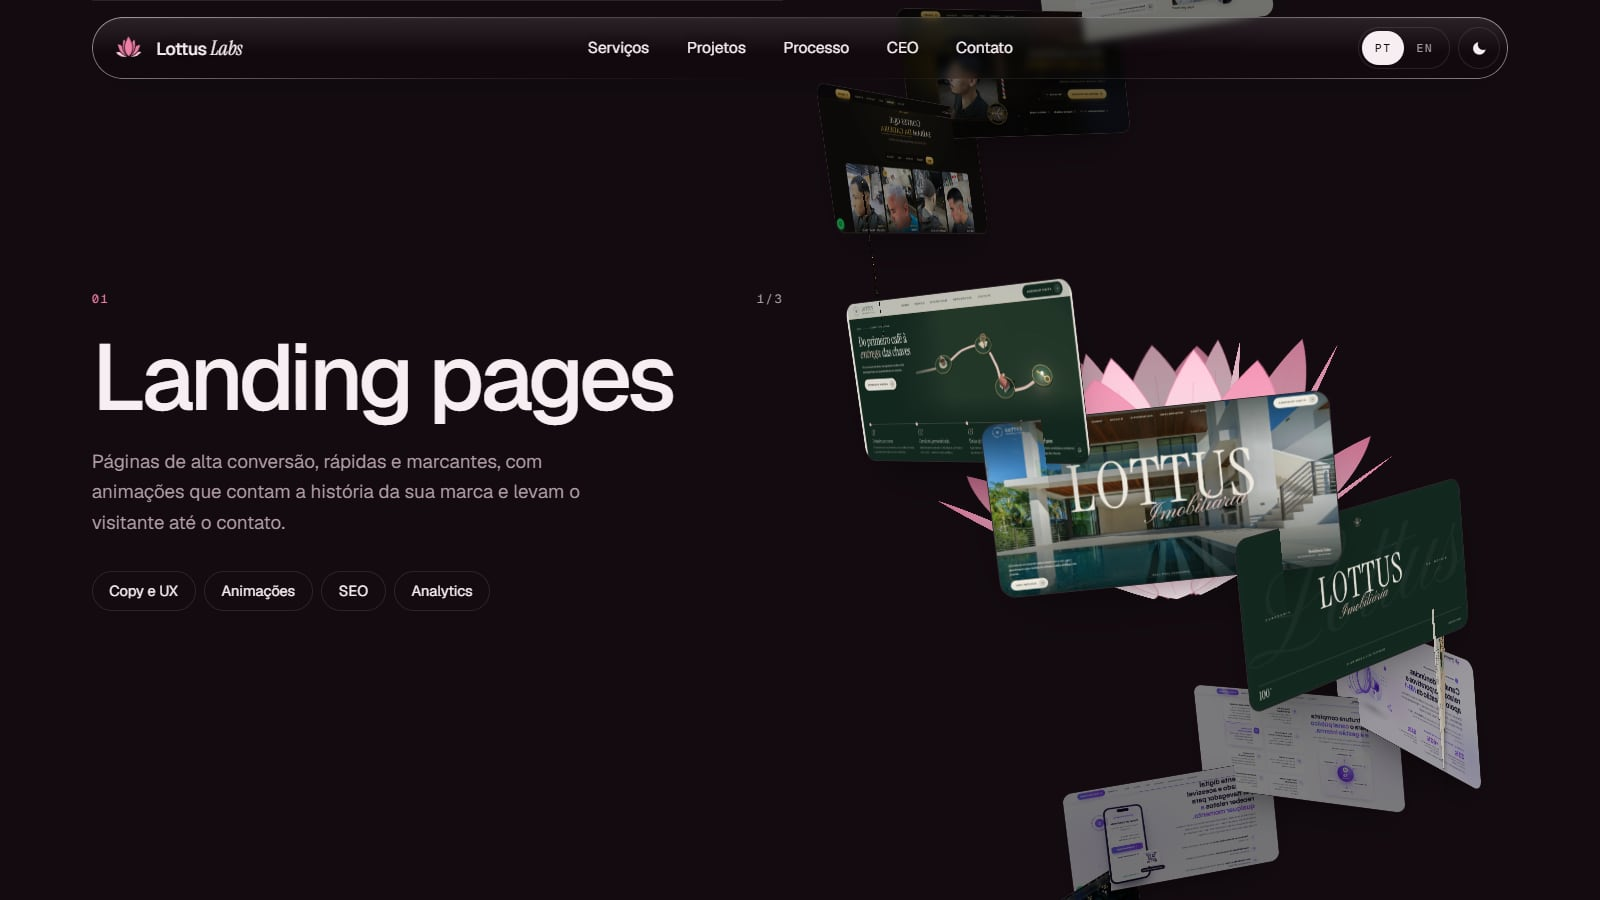
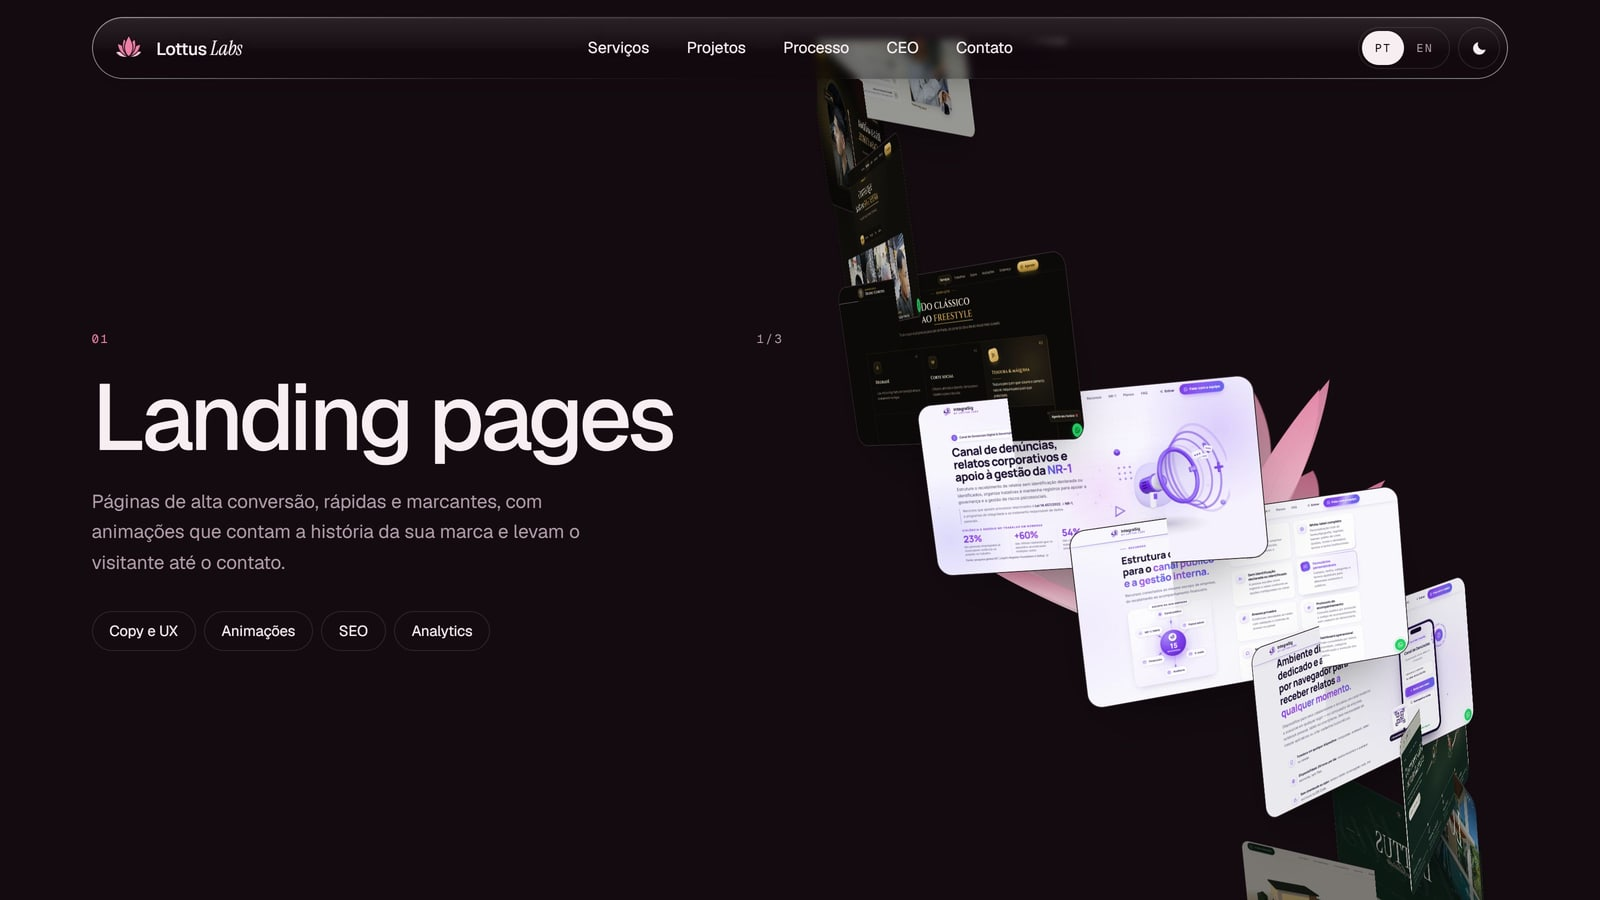
docs: update project showcase with clients section and new works

diff --git a/README.md b/README.md
@@ -145,19 +145,25 @@ O processo é contado como o ciclo de vida da lótus, em cinco etapas: **Semente
 
 A apresentação do fundador (eu!). A foto fica escondida atrás de uma silhueta coberta de pétalas, com outras pétalas girando ao redor. Passando o mouse, o cursor joga tinta que revela a foto por baixo: a tinta escorre, seca sozinha em menos de um segundo, e as pétalas escorregam para fora dela e voltam quando ela seca. Ao lado, alguns fatos rápidos, como idade, cidade, idiomas e a motivação de todo dia.
 
-### 8. Perguntas frequentes
+### 8. Clientes
+
+<img src="./assets/clientes.jpg" alt="Anéis de cartões com o ícone e o nome de cada cliente girando em volta de uma flor de lótus" width="100%">
+
+Os clientes da Lottus Labs, os mesmos dos trabalhos selecionados, em cartões que giram em anéis ao redor de uma flor de lótus, entre pétalas que caem. Cada cartão traz o ícone do site do cliente, nas cores dele, e o nome ao lado; nomes longos quebram em duas linhas, como num logo. Com a rolagem, a câmera desce de uma vista de cima, onde os anéis aparecem como círculos, até a altura dos cartões. A seção também tem atalho no menu, em *Clientes*.
+
+### 9. Perguntas frequentes
 
 <img src="./assets/faq.jpg" alt="Seção de perguntas frequentes com uma resposta aberta" width="100%">
 
 As dúvidas mais comuns respondidas de forma direta: quanto custa, quanto tempo leva, domínio e hospedagem, celular e Google, atualizações depois da entrega, atendimento fora de São Paulo e o que acontece depois do lançamento. Para o que não estiver ali, um botão leva direto ao WhatsApp.
 
-### 9. Contato
+### 10. Contato
 
 <img src="./assets/contato.jpg" alt="Convite “Vamos fazer sua ideia florescer?” com botões de WhatsApp e Instagram sobre o lago" width="100%">
 
-Assim que a seção aparece, começa uma chuva leve de pétalas sobre o lago. Com a rolagem, as pétalas se juntam e formam uma flor de lótus sobre a água, logo abaixo do convite *Vamos fazer sua ideia florescer?*, com botões diretos para o WhatsApp e o Instagram. O lago aqui é o mesmo do início, então os pássaros, os morcegos e os visitantes escondidos também passam por lá.
+Assim que a seção aparece, começa uma chuva leve de pétalas sobre o lago. Com a rolagem, as pétalas se juntam e formam uma flor de lótus sobre a água, logo abaixo do convite *Vamos fazer sua ideia florescer?*, com botões diretos para o WhatsApp e o Instagram. Quem chega pelo *Contato* do menu desce direto para o fim da seção, com a flor já montada e o convite à vista, em vez de parar num lago ainda vazio. O lago aqui é o mesmo do início, então os pássaros, os morcegos e os visitantes escondidos também passam por lá.
 
-### 10. O final
+### 11. O final
 
 <img src="./assets/final.jpg" alt="Nome “Lottus Labs” pintado em letras grandes no fundo escuro" width="100%">
 
@@ -174,9 +180,9 @@ Boa parte das visitas chega pelo Instagram, então o site foi ajustado com cuida
 <img src="./assets/mobile-2.jpg" alt="Mais quatro telas da versão para celular: espiral de projetos, CEO, contato e o final com os botões do canto" width="100%">
 
 - **O título vem primeiro** e a flor fica logo abaixo, um pouco depois do meio da tela, também durante a volta de 360°.
-- **A espiral de projetos vem antes dos serviços**, centralizada, e gira enquanto cruza a tela, abrindo com os prints da Lottus Imobiliária e sempre com uma foto de frente.
+- **A espiral de projetos vem antes dos serviços**, centralizada, e gira enquanto cruza a tela, abrindo com os prints do IntegraSig, na mesma ordem dos projetos, e sempre com uma foto de frente.
 - **Botão “Travar tela”**: na foto do CEO e no final do site, um botão no canto segura a página para que dê para arrastar o dedo e revelar a foto ou pintar o nome, como se faz com o mouse no computador. Na foto, o dedo já revela o rosto mesmo sem travar.
-- **Acompanha a barra do navegador**: as telas se ajustam quando a barra do iPhone aparece e some, sempre ocupando a tela inteira.
+- **Firme quando a barra do navegador some**: as camadas fixas acompanham a barra do iPhone e sempre chegam ao fim da tela, mas as cenas 3D e o resto da página não mudam de tamanho, então nada pula no meio da rolagem.
 - **Detalhes pensados para o toque**: os selos dos serviços sempre cabem numa linha só, a espiral e os cartões de projetos giram com o dedo, e o atalho para o WhatsApp aparece logo depois da última pergunta frequente.
 - **Textos legíveis sobre o céu**: no tema escuro, o título e as frases da volta de 360° ganham uma sombra suave para não sumirem no brilho da lua.
 
@@ -283,16 +289,19 @@ Uma homenagem ao código mais famoso dos videogames. Ao digitá-lo, a tela ganha
 
 - **Cena 3D feita sob medida**: flor de lótus, lago com reflexo de verdade, nenúfares, montanhas, sol e pássaros de dia, lua cheia, estrelas, vagalumes e morcegos à noite. Nada de imagens prontas.
 - **Detalhes escondidos**: um Drácula que vira um bando de morcegos, uma carpa que salta do lago e uma garça que vem pescar aparecem de vez em quando, sem aviso, e o Konami Code destrava um modo 8-bit (veja [Detalhes ocultos](#detalhes-ocultos)).
-- **Topo de vidro**: o menu fica sempre à vista, numa barra de vidro quase transparente que deixa ver a cena passando por trás.
+- **Topo de vidro**: o menu fica sempre à vista, numa barra de vidro quase transparente que deixa ver a cena passando por trás. Em aparelhos mais fracos, o vidro deixa de desfocar ao vivo e fica um pouco mais opaco, para não pesar.
 - **Interativa de verdade**: as pétalas reagem ao mouse e ao toque, caem na água e formam ondas no reflexo.
 - **Rolagem com cara de filme**: a câmera gira ao redor da flor, as seções se encaixam umas nas outras e cada movimento acompanha a rolagem. Os títulos florescem ao aparecer: as letras sobem e se abrem como pétalas.
 - **Abertura honesta**: a flor da abertura acompanha o carregamento real do site, e as cenas 3D já ficam prontas antes de a página aparecer, para nada surgir vazio.
 - **Proporcional em qualquer tela**: o mesmo visual do notebook ao monitor grande, sem ficar pequeno nem estourar a tela.
+- **Prints nítidos**: os cartões de projetos são desenhados na resolução real da tela, inclusive no iPhone, e a espiral de serviços é desenhada maior e reduzida, para não borrar.
 - **Logo vivo**: a flor do logo respira, balança e abre as pétalas ao passar o mouse, e só se anima quando está visível.
 - **Microinterações**: cursor personalizado, chuva de pétalas dentro dos botões, selos que acendem e cartões que reagem ao movimento.
-- **Acessível**: respeita a opção “reduzir movimento” do sistema, funciona com o teclado e tem atalho para pular direto ao conteúdo.
-- **Leve no que importa**: a página aparece antes de qualquer coisa pesada; as cenas 3D começam a baixar logo depois, são montadas uma de cada vez e pausam quando saem da tela. No celular, os prints dos projetos vêm em tamanho de celular, e as fotos da espiral só carregam depois da abertura, porque ficam várias telas abaixo.
-- **Pronto para o Google e para compartilhar**: prévia leve e bonita no WhatsApp e nas redes sociais, dados estruturados para o Google (a empresa, os serviços e as perguntas frequentes), mapa do site, versões em português e inglês ligadas entre si e ícones próprios, inclusive para salvar na tela do celular.
+- **Acessível**: respeita a opção “reduzir movimento” do sistema, funciona com o teclado, tem atalho para pular direto ao conteúdo e textos com contraste de pelo menos 4,5:1, inclusive os rótulos rosa do tema claro.
+- **Leve no que importa**: a página aparece antes de qualquer coisa pesada; as cenas 3D começam a baixar logo depois, são montadas uma de cada vez e pausam quando saem da tela. Os visitantes do lago (pássaros, morcegos, Drácula, carpa e garça) vêm num pacote à parte e chegam logo depois da abertura. Em computadores sem aceleração de vídeo, a flor já aparece aberta, a água fica sem reflexo e as cenas só se movem enquanto algo acontece na tela, para não travar o resto da página. No celular, os prints vêm no tamanho certo para a tela, e as fotos da espiral só carregam depois da abertura, porque ficam várias telas abaixo.
+- **Sem trabalho à toa**: o navegador ignora as seções que estão longe da tela até a hora de mostrá-las, e as animações que ninguém está vendo ficam paradas. O círculo que abre o site, as pétalas que caem na abertura e o reflexo do lago rodam direto na placa de vídeo; o reflexo é desenhado do jeito que a tela mostra (sem trocar de programa a cada quadro) e, no celular, é refeito a cada dois quadros. Os nenúfares saem num desenho só. O rodapé, o cursor personalizado, a chuva de pétalas dos botões e o Konami Code carregam depois da página, e o cursor e as pétalas nem são baixados no celular.
+- **Pronto para o Google e para compartilhar**: prévia leve e bonita no WhatsApp e nas redes sociais, dados estruturados para o Google (a empresa, os serviços e as perguntas frequentes), mapa do site, versões em português e inglês ligadas entre si, ícones próprios, inclusive para salvar na tela do celular, e um resumo do site para assistentes de IA (`llms.txt`).
+- **Seguro**: cabeçalhos de segurança, com HTTPS obrigatório e proteção contra o site ser embutido em páginas de terceiros.
 
 <br>
 
@@ -305,11 +314,12 @@ Alguns dos trabalhos que aparecem no site:
 | **IntegraSig** | Plataforma SaaS de canal de denúncias digital e governança NR-1 para empresas, com relatos anônimos, trilha de auditoria e indicadores psicossociais. | [Visitar](https://integrasig.com.br/landing-page) |
 | **Lottus Imobiliária** | Site imobiliário de alto padrão em São Paulo, com vitrine de imóveis e uma experiência editorial elegante. | [Visitar](https://lottus-imobiliaria.vercel.app/) |
 | **Blindalt** | Blindagem arquitetônica com um teste balístico em 3D: o visitante rola a página e vê o projétil se desfazer no vidro. | [Visitar](https://blindalt.vercel.app/) |
+| **Junior Carvalho** | Relógios de luxo com procedência: com a rolagem, um relógio se desmonta peça por peça em 3D, cada modelo ganha uma sala só dele e uma página de detalhes, com contato direto pelo WhatsApp. | [Visitar](https://junior-carvalho.vercel.app/) |
+| **Brisola Mecânica** | Oficina mecânica premium em Sorocaba/SP: uma estrada leva o carro até a oficina, uma roda se desmonta em 3D peça por peça e as avaliações do Google ficam à vista. | [Visitar](https://brisola-mecanica.vercel.app/) |
 | **Duetto** | Agência de publicidade full service, com tipografia em 3D, o método em quatro tempos e contato direto pelo WhatsApp. | [Visitar](https://duetto-nine.vercel.app/) |
-| **João Carvalho** | Relógios de luxo com procedência: com a rolagem, um relógio se desmonta peça por peça em 3D, e cada modelo ganha uma sala só dele. | [Visitar](https://junior-carvalho.vercel.app/) |
 | **R&R Pavers Group** | Empresa de pavers e áreas externas em Tampa Bay, nos Estados Unidos, com antes e depois para arrastar, galeria de obras e orçamento grátis. | [Visitar](https://rer-pavers-group.vercel.app/) |
 | **Vitória Rossini** | Página pessoal de uma futura fisioterapeuta, com a jornada acadêmica e uma contagem regressiva para a formatura. | [Visitar](https://vitoria-rossini.vercel.app/) |
-| **Dudu Cortes** | Barbearia em Itu/SP com agendamento pelo WhatsApp, galeria de cortes e avaliações dos clientes. | [Visitar](https://dudu-cortes.vercel.app/) |
+| **Dudu Cortes** | Barbearia em Itu/SP com agendamento pelo WhatsApp, galeria de cortes e avaliações dos clientes. | [Visitar](https://dudu-cortes.com.br/) |
 
 <br>
 
@@ -366,6 +376,6 @@ O nome, a marca, o logo, os textos e as imagens da **Lottus Labs** pertencem à 
 
 <div align="center">
 
-> Feito com 🪷 em São Paulo, por Guilherme Francisco Pereira.
+> Feito por Guilherme Francisco Pereira.
 
 </div>
